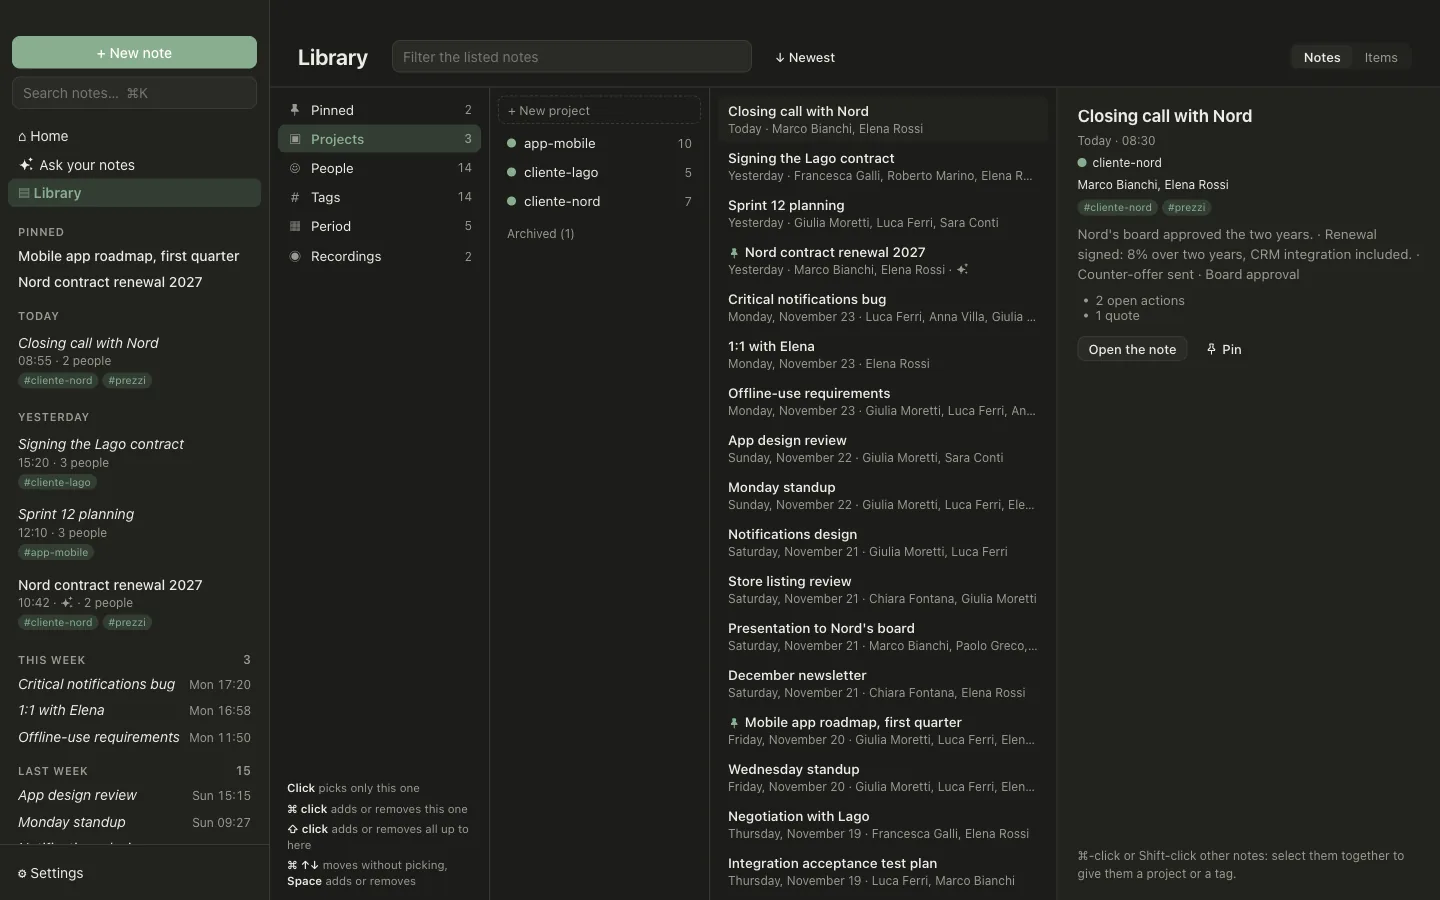
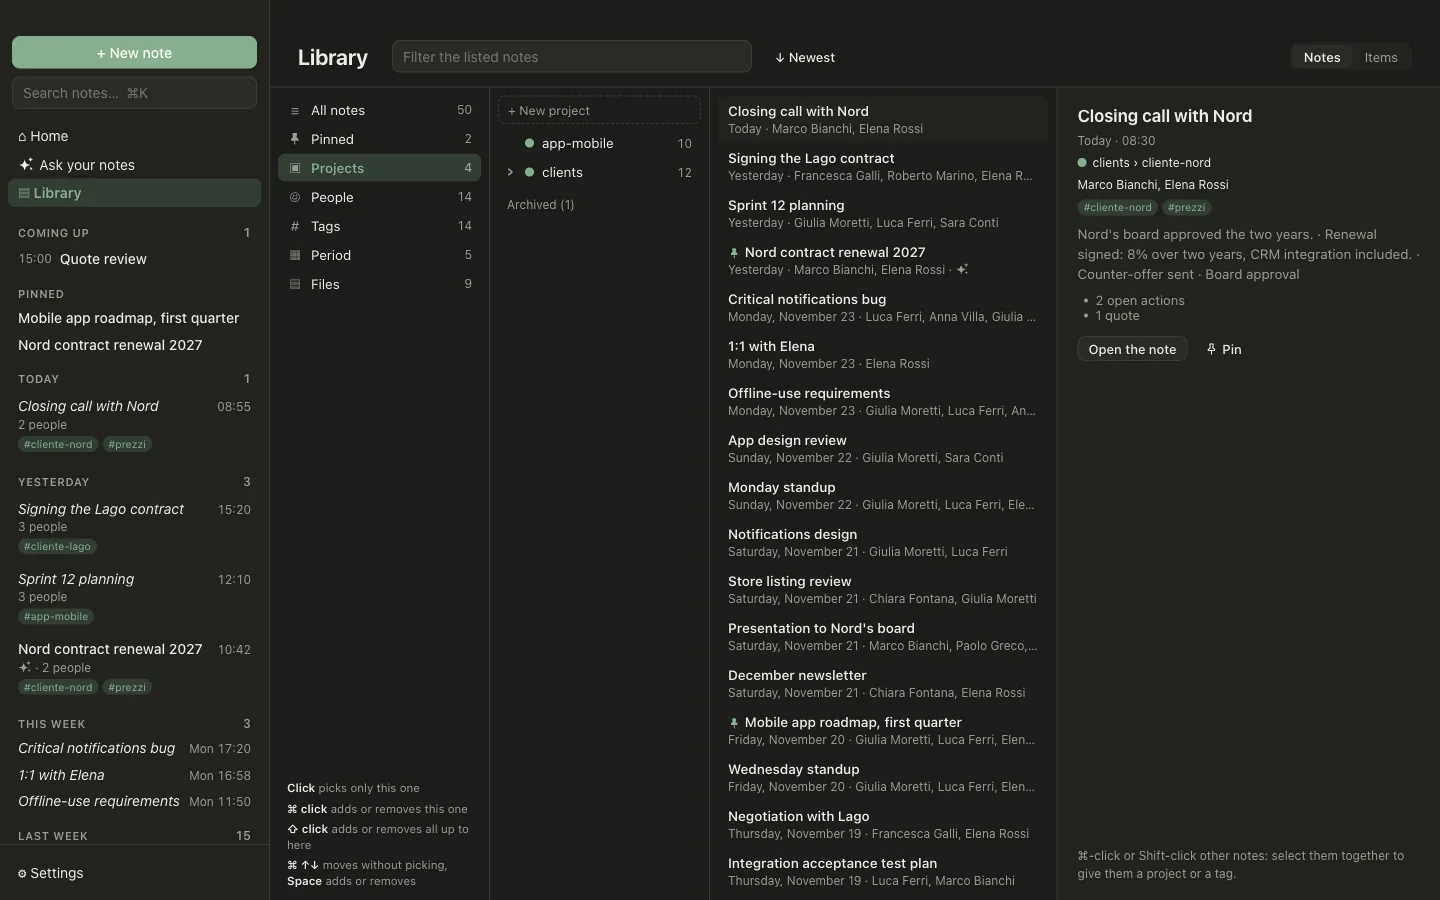
feat(libreria): «Tutte le note» come prima voce della Libreria
Mostra ogni nota senza filtri. «Tutte le note» in fondo alla barra
laterale apre la Libreria lì invece che sui progetti; ⌘ clic su un'altra
dimensione la sostituisce con quel filtro.

Changed region(s): [[0.0, 0.2489, 0.1875, 0.9333], [0.1875, 0.0933, 0.4375, 0.3111], [0.7812, 0.1556, 0.8438, 0.1867]]

diff --git a/src/components/LibraryView.tsx b/src/components/LibraryView.tsx
@@ -27,13 +27,18 @@ interface Props {
   toast: (text: string) => void;
   /** Apre la Libreria sui meeting di questa persona. */
   person?: string;
+  /** Apre la Libreria su tutte le note (da «Tutte le note» nella barra laterale). */
+  all?: boolean;
 }
 
-type Dim = "pinned" | "projects" | "people" | "tags" | "period" | "files";
+type Dim = "all" | "pinned" | "projects" | "people" | "tags" | "period" | "files";
 /** Le dimensioni che raggruppano i meeting (i file no). */
 type GroupDim = Exclude<Dim, "files">;
-/** Le dimensioni con una colonna di voci da scegliere: i fissati sono un filtro senza voci. */
-type FacetDim = Exclude<GroupDim, "pinned">;
+/**
+ * Le dimensioni con una colonna di voci da scegliere: i fissati sono un filtro senza voci, tutte
+ * le note nessun filtro.
+ */
+type FacetDim = Exclude<GroupDim, "pinned" | "all">;
 const FACETS: FacetDim[] = ["projects", "people", "tags", "period"];
 /**
  * Con più voci scelte nella stessa colonna, in persone e tag un meeting deve averle tutte (Ermanno
@@ -79,6 +84,8 @@ interface Group {
 }
 
 const DIMS: { id: Dim; icon: React.ReactNode; label: () => string }[] = [
+  // nessun filtro: tutte le note del vault, dalla più recente
+  { id: "all", icon: "≡", label: () => t("Tutte le note") },
   // una voce sola, senza seconda colonna: i meeting fissati nella barra laterale
   { id: "pinned", icon: <PinIcon filled />, label: () => t("Fissati") },
   { id: "projects", icon: "▣", label: () => t("Progetti") },
@@ -283,10 +290,11 @@ export default function LibraryView({
   onMeetingsChanged,
   toast,
   person,
+  all: allNotes,
 }: Props) {
   const [meetings, setMeetings] = useState<MeetingSummary[]>([]);
   /** Le dimensioni scelte nella prima colonna, nell'ordine in cui sono state aggiunte. */
-  const [active, setActive] = useState<Dim[]>([person ? "people" : "projects"]);
+  const [active, setActive] = useState<Dim[]>([person ? "people" : allNotes ? "all" : "projects"]);
   /** Le voci scelte in ogni colonna; una colonna senza voci scelte non filtra. */
   const [sel, setSel] = useState<Partial<Record<FacetDim, string[]>>>(
     person ? { people: [person.toLowerCase()] } : {},
@@ -353,7 +361,7 @@ export default function LibraryView({
   const pinnedOn = active.includes("pinned");
   /** Le colonne di voci, una per dimensione scelta, nell'ordine in cui sono state aggiunte. */
   const facets = useMemo(
-    () => active.filter((d): d is FacetDim => d !== "pinned" && d !== "files"),
+    () => active.filter((d): d is FacetDim => d !== "all" && d !== "pinned" && d !== "files"),
     [active],
   );
   const meetingsCol = facets.length + 1;
@@ -454,9 +462,11 @@ export default function LibraryView({
   const dimCount = (d: Dim): number | null =>
     d === "files"
       ? fileCount
-      : d === "pinned"
-        ? filtered.filter((m) => m.pinnedAt !== null).length
-        : columns[d].total;
+      : d === "all"
+        ? meetings.length
+        : d === "pinned"
+          ? filtered.filter((m) => m.pinnedAt !== null).length
+          : columns[d].total;
 
   /** Le voci scelte, con il loro nome, per il segnaposto del filtro e i messaggi. */
   const chosenLabels = facets.flatMap((d) => chosen(d).map((k) => hash(d) + known[d].get(k)!.label));
@@ -613,19 +623,21 @@ export default function LibraryView({
    * Clic su una dimensione, come nel Finder: da solo la sceglie al posto delle altre, con Cmd la
    * aggiunge (o la toglie) e la sua colonna si affianca alle altre, con Maiusc aggiunge tutte quelle
    * fino a lì, o le toglie se la dimensione cliccata era già scelta (ne resta sempre almeno una).
-   * I file non filtrano i meeting: stanno sempre da soli.
+   * I file non filtrano i meeting e Tutte le note non filtra niente: stanno sempre da soli.
    */
   const pickDim = (d: Dim, e: Mods) => {
     setCol(0);
-    const groupable = d !== "files" && !filesView;
+    const groupable = d !== "files" && d !== "all" && !filesView;
+    // aggiungendo un filtro a Tutte le note, resta solo il filtro
+    const filters = active.filter((x) => x !== "all");
     if (groupable && (e.metaKey || e.ctrlKey)) {
-      if (!active.includes(d)) showDims([...active, d]);
-      else if (active.length > 1) showDims(active.filter((x) => x !== d));
+      if (!filters.includes(d)) showDims([...filters, d]);
+      else if (filters.length > 1) showDims(filters.filter((x) => x !== d));
     } else if (groupable && e.shiftKey) {
       const ids = DIMS.map((x) => x.id);
       const [from, to] = [ids.indexOf(active.at(-1)!), ids.indexOf(d)].toSorted((a, b) => a - b);
-      const range = ids.slice(from, to + 1).filter((x) => x !== "files");
-      const next = shiftRange(active, range, active.includes(d));
+      const range = ids.slice(from, to + 1).filter((x) => x !== "files" && x !== "all");
+      const next = shiftRange(filters, range, filters.includes(d));
       if (next.length) showDims(next);
     } else showDims([d]);
   };

diff --git a/src/App.tsx b/src/App.tsx
@@ -464,9 +464,10 @@ export default function App() {
         )}
         {view.kind === "library" && (
           <LibraryView
-            // aperta su una persona (da Impostazioni → Persone) riparte da lì
-            key={view.person ?? ""}
+            // aperta su una persona (da Impostazioni → Persone) o su tutte le note riparte da lì
+            key={view.person ?? (view.all ? "all" : "")}
             person={view.person}
+            all={view.all}
             projects={projects}
             onProjectsChanged={setProjects}
             onOpen={(id) => setView({ kind: "meeting", id })}

diff --git a/src/components/Sidebar.tsx b/src/components/Sidebar.tsx
@@ -230,7 +230,7 @@ export default function Sidebar(p: Props) {
             {p.meetings.length === 0 ? (
               <p className="muted small pad">{t("Ancora nessuna nota")}</p>
             ) : (
-              <button className="side-all" onClick={() => p.setView({ kind: "library" })}>
+              <button className="side-all" onClick={() => p.setView({ kind: "library", all: true })}>
                 <span>{t("Tutte le note")}</span>
                 <span className="side-count">
                   {p.meetings.length} <span aria-hidden="true">›</span>

diff --git a/src/types.ts b/src/types.ts
@@ -363,6 +363,6 @@ export interface LibraryItem {
 export type View =
   | { kind: "meeting"; id: string }
   | { kind: "chat" }
-  | { kind: "library"; person?: string }
+  | { kind: "library"; person?: string; all?: boolean }
   | { kind: "settings"; section?: SettingsSection }
   | { kind: "home" };

diff --git a/docs/src/content/docs/it/guides/library.md b/docs/src/content/docs/it/guides/library.md
@@ -9,6 +9,7 @@ La Libreria sfoglia le note a colonne: scegli una dimensione, poi un valore, poi
 
 ## Dimensioni
 
+- **Tutte le note**: ogni nota, dalla più recente, senza filtri.
 - **Fissati**: le note che hai fissato nella barra laterale, vedi sotto.
 - **Progetti**: i progetti che hai creato, ognuno con le note che gli appartengono.
 - **Persone**: chi ha partecipato.
@@ -46,7 +47,7 @@ Sotto **Libreria** la barra laterale mostra, in ordine:
 - **Fissati**: le note che hai fissato.
 - **Oggi** e **Ieri**, ognuna con quante note ha: ogni nota con l'ora dell'ultima modifica a destra del titolo, come nelle settimane sotto, poi ✦ se l'AI l'ha rielaborata, quante persone c'erano e al massimo due tag. Un titolo in corsivo è una nota non ancora rielaborata dall'AI.
 - **Questa settimana** e **Settimana scorsa**: una riga per nota con il giorno della settimana e l'ora dell'ultima modifica, e quante note ha la settimana. Si vedono le prime quattro; **Altre N** mostra le altre.
-- **Tutte le note**, in fondo, apre la Libreria.
+- **Tutte le note**, in fondo, apre la Libreria su tutte le note.
 
 Queste sezioni seguono l'ultima modifica, dalla più recente: se cambi il titolo, le note, le note AI, i partecipanti o i tag di una nota vecchia, torna sotto **Oggi**. I tag dati a più note insieme dalla Libreria non le spostano. Nella nota, la data in alto dice quando è stata modificata l'ultima volta, se è più di un'ora dopo la fine della registrazione.
 

diff --git a/docs/src/content/docs/guides/library.md b/docs/src/content/docs/guides/library.md
@@ -9,6 +9,7 @@ The Library browses your notes in columns: pick a dimension, then a value, then 
 
 ## Dimensions
 
+- **All notes**: every note, newest first, with no filter.
 - **Pinned**: the notes you pinned to the sidebar, see below.
 - **Projects**: the projects you created, each with the notes that belong to it.
 - **People**: who took part.
@@ -46,7 +47,7 @@ Under **Library** the sidebar shows, in order:
 - **Pinned**: the notes you pinned.
 - **Today** and **Yesterday**, each with how many notes it has: each note with the time it was last changed on the right of the title, as in the weeks below, then ✦ when the AI has enhanced it, how many people took part and up to two tags. A title in italics is a note not enhanced by the AI yet.
 - **This week** and **Last week**: one line per note with the weekday and time of its last change, and how many notes the week has. The first four are shown; **N more** shows the rest.
-- **All notes**, at the bottom, opens the Library.
+- **All notes**, at the bottom, opens the Library on all notes.
 
 These sections go by the last change, the most recent first: editing the title, the notes, the AI notes, the participants or the tags of an older note brings it back under **Today**. Tagging several notes at once from the Library does not move them. In the note itself, the date at the top says when it was last edited, if that was more than an hour after the recording ended.
 
